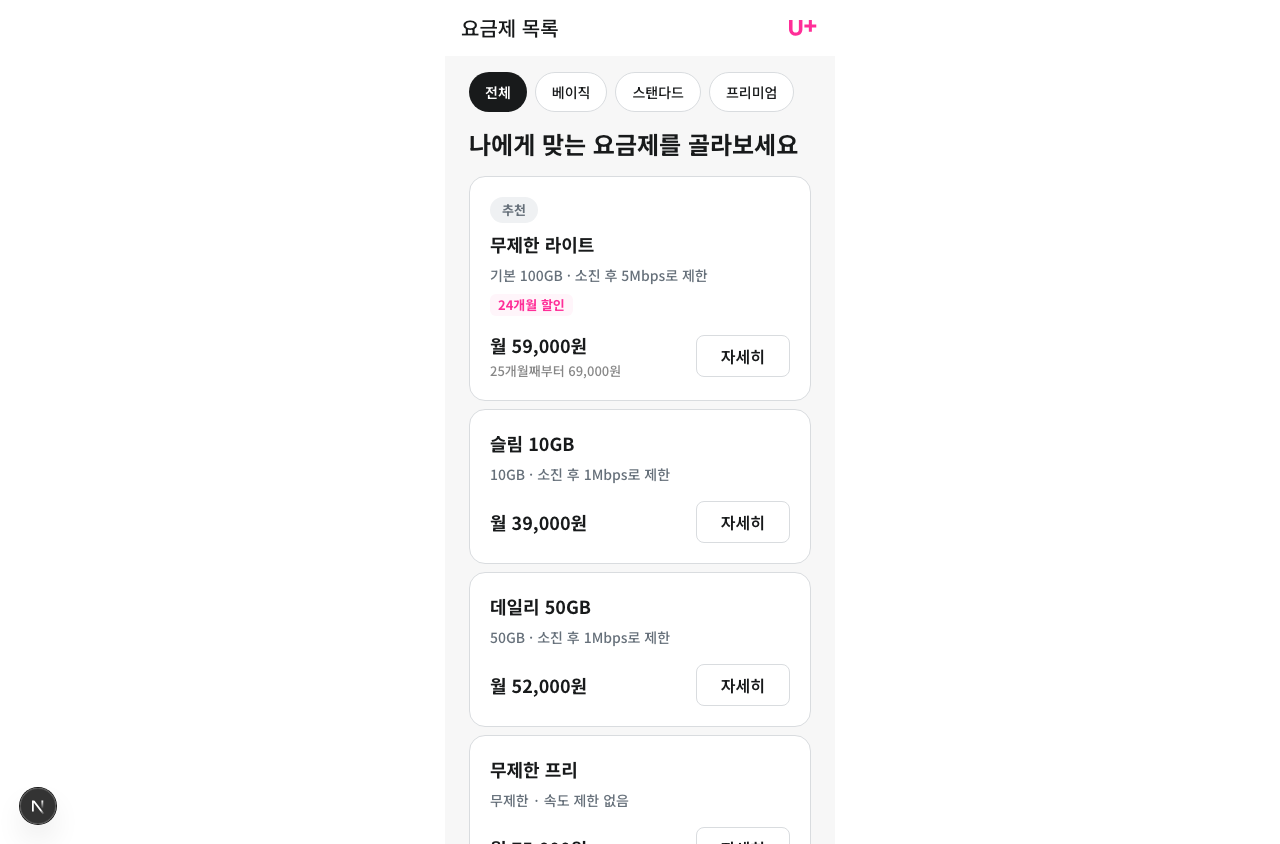
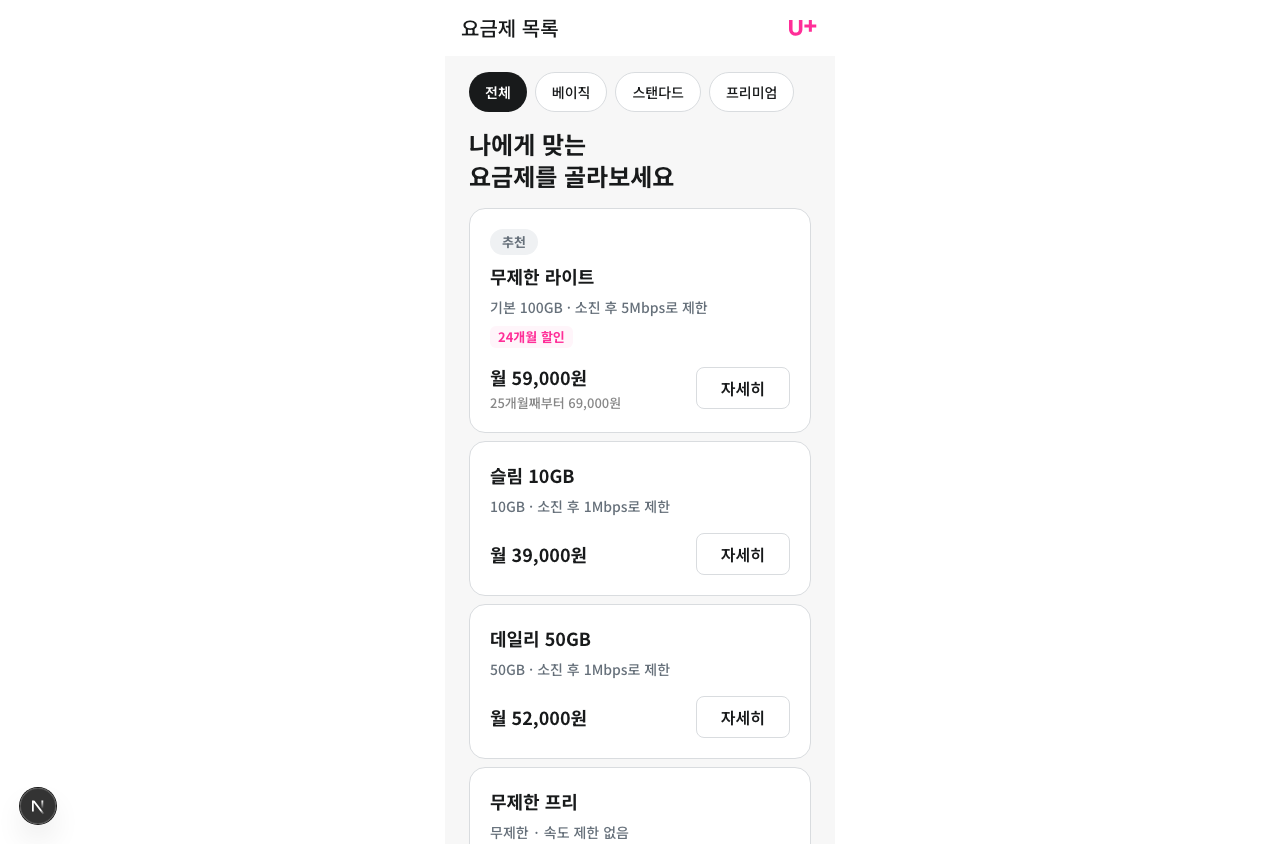
harness: 5단계 검증 통과 (4회차, 사람 승인 대기)

diff --git a/harness/review/index.html b/harness/review/index.html
@@ -1,4 +1,4 @@
 <!doctype html><html lang="ko"><meta charset="utf-8"><title>사람 승인 비교</title>
 <style>body{font-family:-apple-system,sans-serif;margin:24px;background:#fafafa}.row{display:flex;gap:16px;overflow-x:auto}figure{margin:0}img{height:640px;border:1px solid #ccc;background:#fff}img.wide{height:420px}figcaption{font-size:13px;color:#555;margin-top:4px}</style>
-<h1>사람 승인 (3회차 — 추천 요금제 맨 위) — 피그마 화면 링크 vs localhost (390×844)</h1>
+<h1>사람 승인 (4회차 — 추천 맨 위 · 헤드라인 줄바꿈) — 피그마 화면 링크 vs localhost (390×844)</h1>
 <p>비교 기준: 컴포넌트 · 배치 · 토큰. 데이터(요금제 이름 · 금액 · 입력 항목) 차이는 제외.</p><section><h2>요금제 목록</h2><div class="row"><figure><img src="figma/1-plans.png"><figcaption>피그마 화면 링크</figcaption></figure><figure><img src="localhost/plans.png"><figcaption>localhost 기본</figcaption></figure><figure><img src="localhost/plans--loading.png"><figcaption>?state=loading</figcaption></figure><figure><img src="localhost/plans--empty.png"><figcaption>?state=empty</figcaption></figure><figure><img src="localhost/plans--error.png"><figcaption>?state=error</figcaption></figure></div></section><section><h2>요금제 상세 (p03)</h2><div class="row"><figure><img src="figma/2-plan-detail.png"><figcaption>피그마 화면 링크</figcaption></figure><figure><img src="localhost/plan-detail-p03.png"><figcaption>localhost 기본</figcaption></figure><figure><img src="localhost/plan-detail-p03-scrolled.png"><figcaption>맨 아래까지 스크롤</figcaption></figure><figure><img src="localhost/plan-detail-p03--loading.png"><figcaption>?state=loading</figcaption></figure><figure><img src="localhost/plan-detail-p03--empty.png"><figcaption>?state=empty</figcaption></figure><figure><img src="localhost/plan-detail-p03--error.png"><figcaption>?state=error</figcaption></figure></div></section><section><h2>구독 신청 (p03)</h2><div class="row"><figure><img src="figma/3-apply.png"><figcaption>피그마 화면 링크</figcaption></figure><figure><img src="localhost/apply-p03.png"><figcaption>localhost 기본</figcaption></figure><figure><img src="localhost/apply-p03--error-scrolled.png"><figcaption>?state=error 맨 아래까지 스크롤</figcaption></figure><figure><img src="localhost/apply-p03--loading.png"><figcaption>?state=loading</figcaption></figure><figure><img src="localhost/apply-p03--empty.png"><figcaption>?state=empty</figcaption></figure><figure><img src="localhost/apply-p03--error.png"><figcaption>?state=error</figcaption></figure></div></section><section><h2>신청 완료</h2><div class="row"><figure><img src="figma/4-complete.png"><figcaption>피그마 화면 링크</figcaption></figure><figure><img src="localhost/complete.png"><figcaption>localhost 기본 (신청 없이 열면 /plans로 이동)</figcaption></figure><figure><img src="localhost/complete--loading.png"><figcaption>?state=loading</figcaption></figure><figure><img src="localhost/complete--empty.png"><figcaption>?state=empty</figcaption></figure><figure><img src="localhost/complete--error.png"><figcaption>?state=error</figcaption></figure></div></section><section><h2>넓은 화면 (1280px) — 390 컨테이너 가운데 정렬</h2><div class="row"><figure><img class="wide" src="localhost/wide-plans.png"><figcaption>/plans</figcaption></figure><figure><img class="wide" src="localhost/wide-plan-detail-p03.png"><figcaption>/plans/p03</figcaption></figure></div></section></html>

diff --git a/harness/05-report.md b/harness/05-report.md
@@ -1,12 +1,15 @@
 # 05-report — 자동 게이트 결과
 
-- 단계: 4-2 화면 구현
-- 시각: 2026-10-18T14:35:31.128Z
+- 단계: 5 검증
+- 시각: 2026-10-18T14:37:23.348Z
 - 결과: 전부 통과
 
 | 게이트 | 이름 | 결과 | 복귀 |
 |---|---|---|---|
+| S1 | 맥락 파일 | 통과 | - |
+| S2 | 화면 명세 | 통과 | - |
 | G1 | 화면 수 | 통과 | - |
+| G2 | 토큰 동기화 | 통과 | - |
 | G3 | 토큰 밖 값 | 통과 | - |
 | G4 | ★ 규칙 3 가격 | 통과 | - |
 | G5 | ★ 규칙 5 속도 | 통과 | - |
@@ -15,3 +18,5 @@
 | G13 | 금지어 | 통과 | - |
 | G14 | 원본 보호 | 통과 | - |
 | G15 | build · lint | 통과 | - |
+
+자동 게이트 통과 — 사람 승인(CLAUDE.md 5절) 준비
